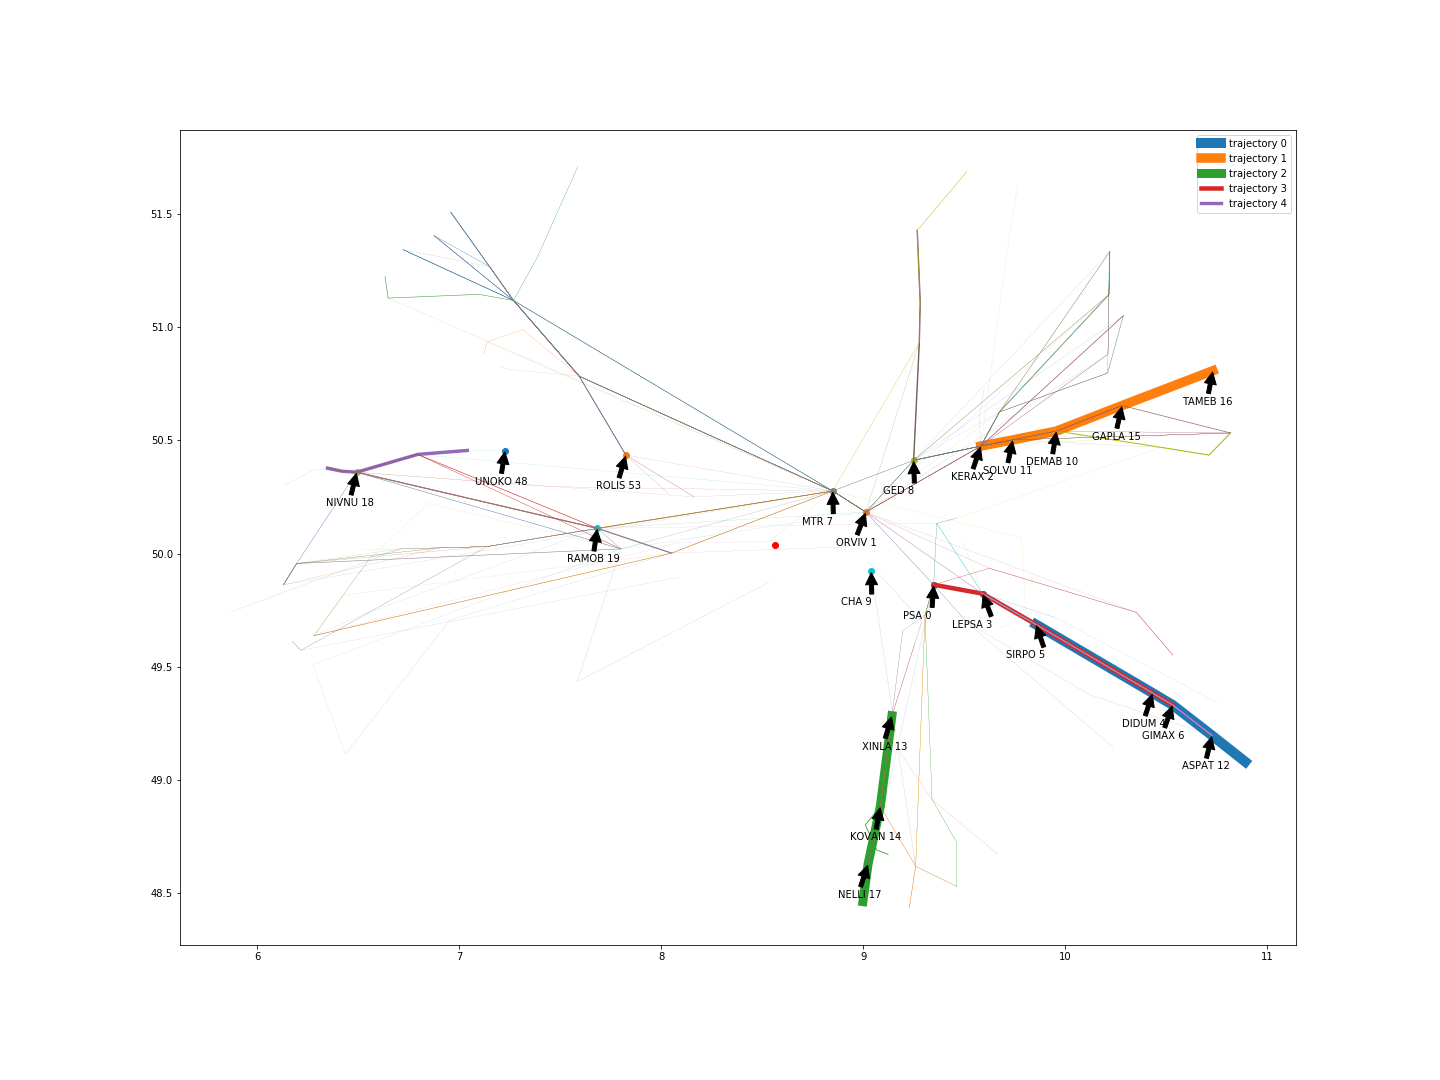
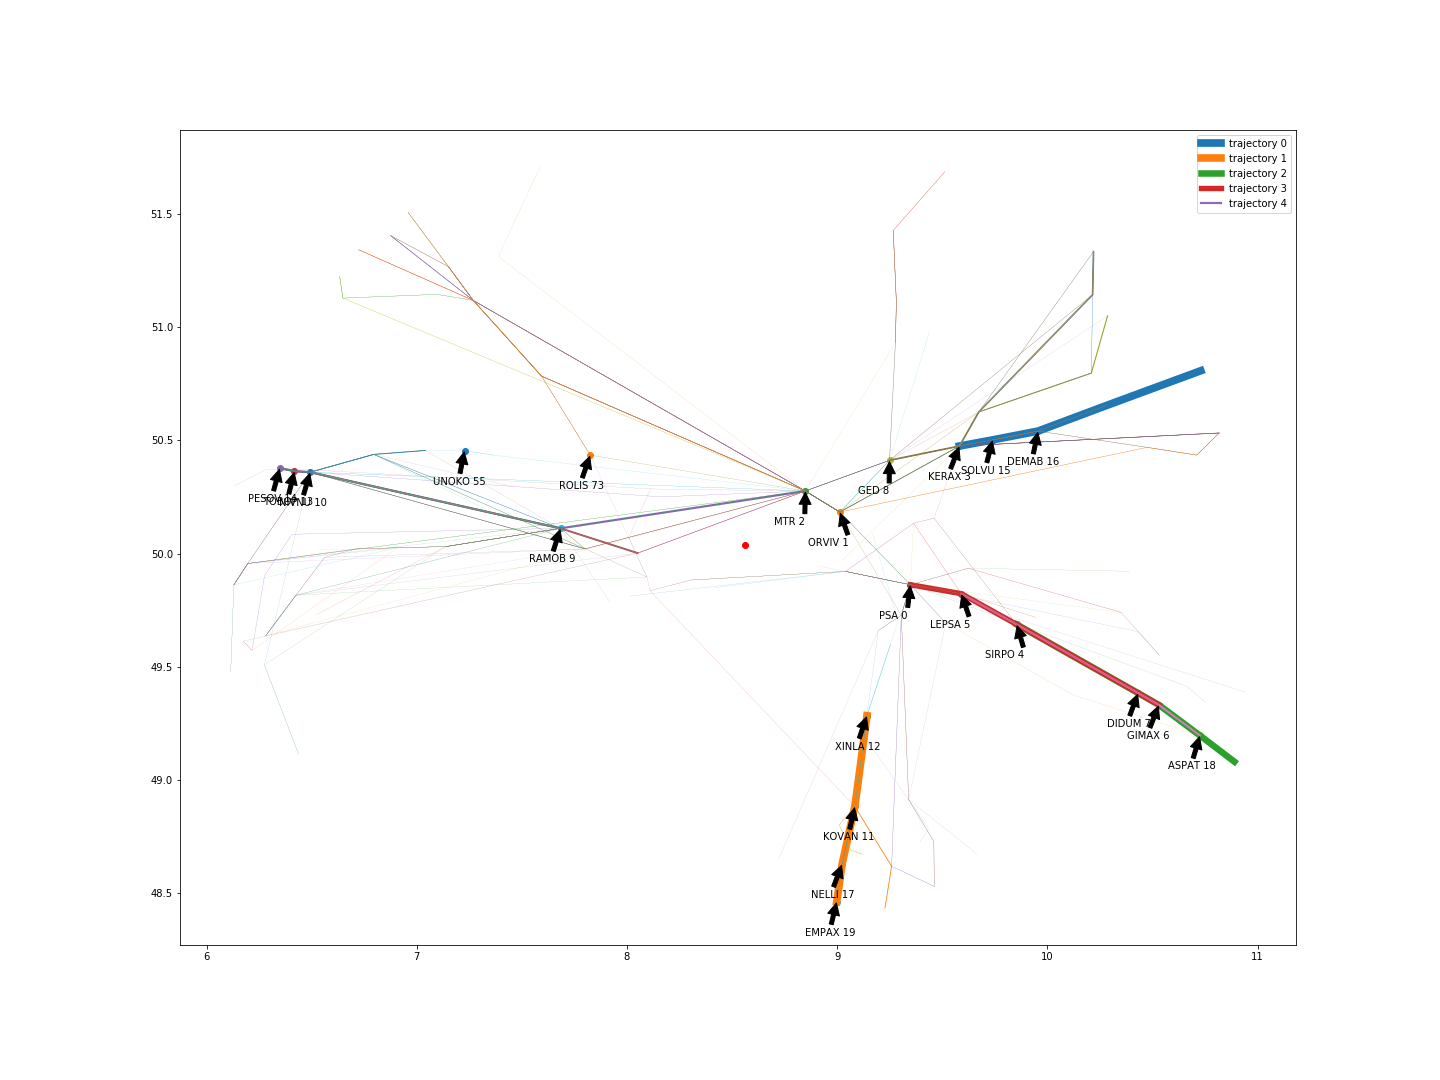
other works

diff --git a/trajectory_study.py b/trajectory_study.py
@@ -8,10 +8,10 @@ from numpy import linalg as LA
 from scipy.spatial import distance
 
 
-df_ar=pd.read_csv("../data/arrivi_1709.csv")
-df_wp=pd.read_csv("../data/punti_1709.csv")
-df_toplot = pd.read_csv("../data/df_to_plot.csv")
-df_wp
+df_ar=pd.read_csv("../data/arrivi_completo.csv")
+df_wp=pd.read_csv("../data/completo.csv")
+
+
 data.rinomina(df_wp,"astext(k.coords)","coor")
 data.add_dist(df_wp)
 df_filtered=data.dist_filter(df_wp,200)
@@ -19,46 +19,32 @@ df_filtered=data.dist_filter(df_wp,200)
 df_filtered
 freq = fun.frequency(df_filtered,"sid")
 
-freq
-df_filtered = data.data_time(df_filtered)
 
 
 
-df_toplot O
-
-#considero solo un giorno e solo la condizione di frankfurt!
-cond_day1=df_filtered["date"]=="2017-09-13"  #data in considerazione
-df_entry_day1=df_filtered[cond_day1]
-df_entry_day1.shape
-df_entry_day1
-f_cont = df_entry_day1["D"]="EDDF"
-df_entry_day1=df_entry_day1[cond_day1]
-df_entry_day1.shape
-df_entry_day1
 
 coordinate = []
 #mettiamo a posto le coordinate
-for i in range(df_entry_day1.shape[0]):
-    coordinate.append(fun.coord(df_entry_day1.iloc[i]["coor"]))
+for i in range(df_filtered.shape[0]):
+    coordinate.append(fun.coord(df_filtered.iloc[i]["coor"]))
 
-df_entry_day1= df_entry_day1.drop(columns=["coor"])
-df_entry_day1["coor"]=coordinate
-df_entry_day1.shape[0]
+df_filtered= df_filtered.drop(columns=["coor"])
+df_filtered["coor"]=coordinate
 
-p= df_entry_day1.to_csv (r'../data/ppt.csv', index = None, header=True)
-df_entry_day1
+
+
 """
 Ora procedo con la costruzione del dataset: in questo dataset ci saranno le traiettorie_13_09
 relative ai voli avvenuti il giorno 13 settembre nell'aereoporto di Frankfurt.
 Per semplicità (da migliorare) consideriamo solo i flight con più di 5 waypoint e
 consideriamo solo i primi 5 waypoint [ai fini del tempo è importante il primo]
 """
-df_entry_day1
 
-i = 0
+
+
 names=['flight','wp1','wp2','wp3','wp4','wp5','t1','t2','t3','t4','t5']
-
-df_traj = data.creation_data_waypoint(df_entry_day1,names)
+df_filtered
+df_traj = data.creation_data_waypoint(df_filtered,names,name_of_col ="aereo")
 df_traj
 
 
@@ -70,17 +56,10 @@ df_traj
 """
 Al dataset creato aggiungo gli arrivi, contenuti nel dataset df_ar
 """
-
-f_cont = arr["D"]=="EDDF"
-arr=arr[f_cont]
-arr = df_ar.copy()
-df_filtered = data.data_time(df_filtered)
-arr = data.data_time(arr,"arr_time")
-date_cond = arr["date"]=="2017-09-13"
-arr = arr[date_cond]
-data.rinomina(arr,"ifps_id","flight")
-arr
-df_traj = data.arrival_matching(df_traj,arr)
+data.rinomina(df_ar,"aereo","flight")
+data.rinomina(df_traj,"aereo","flight")
+df_ar
+df_traj = data.arrival_matching(df_traj,df_ar)
 df_traj
 #df_traj rappresenta i primi 5 waypoints e i vari tempi + tempo arrivo
 #ora aggiungo le tempistiche
@@ -98,7 +77,7 @@ for i in  range(df_traj.shape[0]):
 "aggiungo anche i tempi di arrivo"
 df_traj["tempi di arrivo"] = tempistiche
 df_traj
-traiettorie_13_09 = df_traj.to_csv(r'../traiettorie_13_09.csv',index = None, header=True)
+traiettorie_day1 = df_traj.to_csv(r'../traiettorie_day1.csv',index = None, header=True)
 
 none_cond = df_traj["arrival"]!="None"
 df_traj = df_traj[none_cond]
@@ -132,23 +111,23 @@ for i in range(len(trajectory)):
 
 tr_dict= sorted(tr_dict.items(),key =lambda kv:(kv[1], kv[0]),reverse=True)
 tr_dict = dict(tr_dict)
-tr_dict
+
 
 percorsi = list(tr_dict.keys()) #lista di tutte le pox traiettorie
 num_percorsi = list(tr_dict.values()) #lista del numero di volte in cui le traiettorie si presentano
 len(percorsi)
-percorsi
 
-freq
+
+
 """
 Ora creo un dict,chiamato wp_coord, che ha come chiavi tutti i pox waypoints
 e come valori le loro coordinate
 """
 wp_coord ={}
-for i in range(df_entry_day1.shape[0]):
-    sid = df_entry_day1.iloc[i]["sid"]
+for i in range(df_filtered.shape[0]):
+    sid = df_filtered.iloc[i]["sid"]
     if sid not in wp_coord:
-        wp_coord[sid] = df_entry_day1.iloc[i]["coor"]
+        wp_coord[sid] = df_filtered.iloc[i]["coor"]
     else:
         continue
 
@@ -312,16 +291,16 @@ lista_coordinate = list(wp_coord.values())
 
 
 
-freq
+
 list_freq = list(freq.keys())
-list_freq
+
 list_freq_2 = []
 for i in range(10):
     list_freq_2.append(list_freq[i])
 
 
 wp_freq=list(freq.keys())
-len(wp_freq)
+
 plt.figure(figsize=(20,15))
 for i in range(coord_traj.shape[0]):
     tr = coord_traj.iloc[i]
@@ -361,20 +340,7 @@ for i in range(len(wayp)):
 plt.legend()
 plt.savefig("plot/traj_1_bis_bis.png")
 plt.show()
-wp_freq_l = wp_freq[:20]
-wp_freq_l
-wp_coord["KERAX"]
-wp_dict
-"KERAX" in wayp
-plt.show()
-freq
-frequenze = list(freq.keys())
-wp_freq
-wp_coord["PSA"]
-wp_coord
-wayp
-help(fun.frequency)
-
+w
 
 
 
@@ -434,18 +400,6 @@ p_arr
 
 
 
-for i in range(len(similar_to_one_coord)):
-    x = []
-    y = []
-    for j in range(5):
-        if(similar_to_one_coord[i][j]!=0):
-            x.append(similar_to_one_coord[i][j][0])
-            y.append(similar_to_one_coord[i][j][1])
-    plt.plot(x,y,linewidth=1)
-
-plt.scatter(50.037753, 8.560964,color="red")
-
-plt.plot(coordinate_x[0],coordinate_y[0],linewidth=4,label = "trajectory_0")
 
 """
 stessa cosa con il secondo
@@ -474,35 +428,7 @@ def controlla_traiettoria(trajectories,df = df_traj):
 
 qwerty=controlla_traiettoria(similar_to_one)
 
-df_traj.shape[0]
-
-similar_to_one
-similar_to_2_coord = []
-for i in range(len(similar_to_2)):
-    temp = similar_to_2[i]
-    coord = []
-    for j in range(len(temp)):
-        if (temp[j]!="None"):
-            print(wp_coord[temp[j]])
-            coord.append(wp_coord[temp[j]])
-        else:
-            coord.append(0)
-    similar_to_2_coord.append(coord)
-
-for i in range(len(similar_to_2_coord)):
-    x = []
-    y = []
-    for j in range(5):
-        if(similar_to_2_coord[i][j]!=0):
-            x.append(similar_to_2_coord[i][j][0])
-            y.append(similar_to_2_coord[i][j][1])
-    plt.plot(x,y,linewidth=1)
-
-plt.scatter(50.037753, 8.560964,color="red")
-
-plt.plot(coordinate_x[1],coordinate_y[1],linewidth=5,label = "trajectory_1")
-
-
+d
 
 
 
